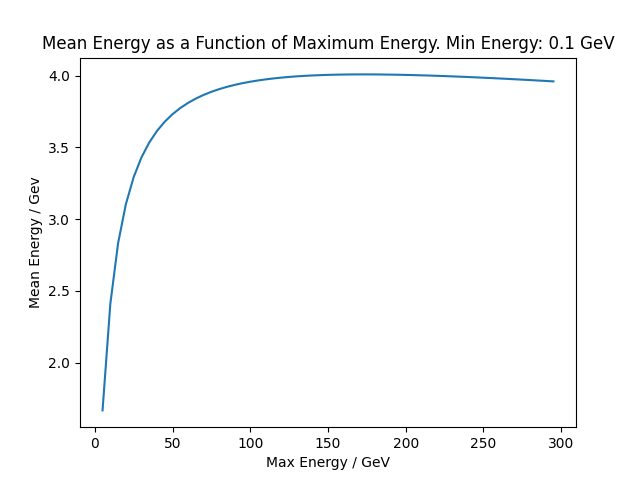
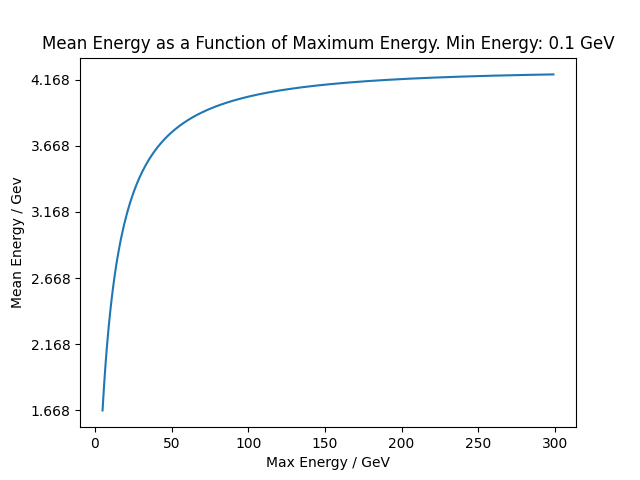
miscell

diff --git a/lifetime_processing.py b/lifetime_processing.py
@@ -33,31 +33,18 @@ def rest_lifetimes(x):
 def exponential_decay(t, N_0, tau):
     return N_0 * np.exp(-t/tau)
 
-
-# def get_folding_time(lifetimes):
-#     lifetimes_sorted = sorted(lifetimes)
-#     init_pop = len(lifetimes_sorted)
-
-#     one_over_e_pop = init_pop / np.exp(1)
-
-#     index = int(np.floor(one_over_e_pop) - 1)
-#     print(index)
-
-#     return lifetimes_sorted[index]
-
-
-def get_folding_time(remaining_muons, tmax):
-    x = np.linspace(0, tmax, len(remaining_muons))
-
-    #y = Nexp(-t/tau)
+def get_folding_time(times, remaining_muons):
+    x = times
+    print(f'Remaining muons matrix in folding time fxn: {remaining_muons}')
+    #y = N_0 * exp(-t/tau)
     #ln(y) = ln(N_0) - t/tau = ln(N_0) + lmbda*t
-    coeffs = np.polyfit(x, np.log(remaining_muons), 1)
+    padding = 1e-5
+    coeffs = np.polyfit(x, np.log(np.add(remaining_muons, padding)), 1)
     N_0 = np.exp(coeffs[1])
     lmbda = coeffs[0] 
     
     tau_estimate = 1 / abs(lmbda)
     return tau_estimate
-
 
                      
 def graph_ages(ages):
@@ -102,7 +89,6 @@ def return_hist(ages, tmax):
     """Graphs the population number for stationary muons in the array as a function of time spent stationary in the array"""
 
     lifetimes = [] #Collects all muons which have self.age != 1, i.e. decayed inside the matrix
-    values = [] #Time spent stationary in matrix
     
     for x in ages:
         if x != 0: 
@@ -110,17 +96,18 @@ def return_hist(ages, tmax):
 
     if len(lifetimes) > 0:
 
-        initial_population = len(lifetimes) #Initial number of muons which are stationary, i.e. population at t=0
-        max_lifetime = np.max(lifetimes) #Maximum age of muons in the array
+        initial_population = len(lifetimes)
 
-        bin_width = width
-        #bins = np.arange(0, max_lifetime + bin_width, bin_width)
         bins = len(ages)
         frequencies, edges = np.histogram(lifetimes, bins=bins)
         bin_centers = 0.5 * (edges[:-1] + edges[1:])
 
+        remaining_muons = [0]
+
         decayed = np.cumsum(frequencies)
-        remaining_muons = initial_population - decayed
+
+        for i in range(len(lifetimes)):
+            remaining_muons = [initial_population - decayed[i+1] for i in range(len(decayed))]
 
         folding_time = get_folding_time(remaining_muons, tmax)
 
@@ -130,3 +117,52 @@ def return_hist(ages, tmax):
     
     else:
         print("No muons decayed in simulation")
+
+
+def plot_reduced_samples(ages):
+    """Uses alternative method to graph ages of muons for sample sizes of less than 6 muon decays"""
+    init_pop = len(ages)
+    times = [0]
+    population = [init_pop]
+
+    for age in sorted(ages):
+        times.append(age)
+
+    for i in range(len(ages)):
+        population.append(init_pop - (i+1))
+
+    tau = get_folding_time(times, population)
+    
+    return times, population
+
+def plot_reduced_samples_no_tau(ages):
+    """Uses alternative method to graph ages of muons for sample sizes of less than 6 muon decays"""
+    init_pop = len(ages)
+    times = [0]
+    population = [init_pop]
+
+    for age in sorted(ages):
+        times.append(age)
+
+    for i in range(len(ages)):
+        population.append(init_pop - (i+1))
+    
+    return times, population
+
+# x = sorted([0,29856.470952521082, 7278.5805228244135, 3319.319442473883, 13997.699152302692, 35052.17123487241, 2833.6204762179104, 25272.912532584724, 43533.81012882453, 4105.307235359445, 45749.42530479566, 51960.91109054334, 26613.229481986244, 66058.93332211625, 21836.551906449327, 10526.942507710415, 9330.08435213552, 10932.957992298245, 21402.459909788788, 2450.321705174714, 14879.425304795663, 30430.453445279694, 7351.857489576128, 19892.791799076746, 2583.4285065690838, 1143.7482687751578, 3646.3372651487666, 76420.64654796182, 52587.824825099015, 8056.079035336175, 625.6312989926677, 35132.79648010837, 37838.735422818754, 36598.24516401929, 16725.611164961738, 6636.740962372215, 15744.692678735639, 6233.893907244066, 11834.912343132131, 9705.566166376737, 22824.77878005471, 8637.086160112805, 60854.283370758625, 21828.28052366389, 20835.883839985436, 60280.96262542227, 45929.0487994139, 20481.55123275422, 21794.367780580284, 5008.310755318906, 7661.055783324562, 8725.581824688026, 364.92903099285326, 32749.459909788788, 11602.723733418507, 11426.638974758791])
+# y = [len(x) - i for i in range(len(x))]
+
+# plt.plot(x,y, label=f'Energy Range: {110}-{200} MeV', color = 'r')
+
+# x_rest = np.linspace(0, 100000, 1000)
+# y_rest = rest_lifetimes(x_rest) #Expected graph for muons at rest
+
+# #Make sure to rescale the rest-frame curve to keep it in line with the initial maximum population
+# plt.scatter(x_rest, len(x)*y_rest, color='b', label='Expected distribution for muons at rest', marker='x', linewidths=0.1)
+
+# plt.xlabel('Lifetime in array / 100ps')
+# plt.ylabel('Muon population')
+# plt.legend()
+# plt.title(f'Muon Population Decay, {len(x)} decayed muons')
+# #plt.savefig('Multiple energy maxima.png')
+# plt.show()

diff --git a/population_graphs.py b/population_graphs.py
@@ -26,11 +26,11 @@ excitation_energy = 3 #In eV, based on light of wavelength 425nm
 rho = 1.081 #density in g/cm^3
 
 #ENERGY RANGES
-min_energies =  np.arange(110,190) #Minimum energies for the energy distribution in MeV
-max_energies = np.add(min_energies,10) #Maximum energies for the distribution in units of MeV. Muons are generated with energies between rest mass and this value
+min_energies =  np.arange(110, 290, 20) #Minimum energies for the energy distribution in MeV
+max_energies = np.add(min_energies, 10) #Maximum energies for the distribution in units of MeV. Muons are generated with energies between rest mass and this value
 
 #Maximum lifetimes for each of the different simulation runs.
-max_lifes = [] 
+init_pops = [] 
 
 #Percentage of muons stopped for each pass of the simulation. 
 percent_stopped = [] 
@@ -59,18 +59,24 @@ for j, max_e in enumerate(max_energies):
 
     print(ages)
 
-    if np.size(ages) != 0:
+    if np.size(ages) != 0 and np.size(ages) > 5:
         #Only enter this block if some of the muons were actually stopped.
         #Returns the x values (lifetime), y values (muon population remaining after each time), and TAU, the folding length
-        x, y, tau = life.return_hist(ages, tmax)
+        x, y = life.plot_reduced_samples(ages)
 
-        #Appends the initial population for each energy range to the master_pop list, which will be used to rescale the rest-frame distribution
-        max_lifes.append(np.max(y))
+        #Appends the initial population for each energy range to the init_pops list, which will be used to rescale the rest-frame distribution
+        init_pops.append(np.max(y))
 
         #Plot the graph of muon population against rest frame lifetime using the histogram return_hist function
-        plt.scatter(x,y, label=f'Energy Range: {min_e}-{max_e} MeV, tau: {(tau/10000):.2f} microseconds', color = np.random.choice(colors), marker=np.random.choice(styles))
+        plt.plot(x,y, label=f'Energy Range: {min_e}-{max_e} MeV', color = np.random.choice(colors))
 
         print(f'Percentage of muons stopped for {min_e}-{max_e} MeV: {life.percentage_stopped(stops):.2f} % ({life.number_stopped(stops)} muons total)')
+
+    elif np.size(ages) <=5:
+        #Use alternative method to avoid lack of convergence in least-squares method
+        times, pop = life.plot_reduced_samples_no_tau(ages)
+        init_pops.append(np.max(y))
+        plt.plot(x,y, label=f'Energy Range: {min_e}-{max_e} MeV', color = np.random.choice(colors))
 
     else:
         print(f'No muons stopped for energy range {min_e}-{max_e} MeV')
@@ -92,12 +98,13 @@ x_rest = np.linspace(0, 100000, 1000)
 y_rest = life.rest_lifetimes(x_rest) #Expected graph for muons at rest
 
 #Make sure to rescale the rest-frame curve to keep it in line with the initial maximum population
-plt.plot(x_rest, len(ages)*y_rest, color='m', label='Expected distribution for muons at rest')
+# for init_pop in init_pops:
+#     plt.scatter(x_rest, init_pop*y_rest, color='b')
 
 plt.xlabel('Lifetime in array / microseconds')
 plt.ylabel('Muon population')
 plt.legend()
-plt.title(f'Muon Population Decay, {muon_number} decayed muons')
+plt.title(f'Muon Population Decay, {len(ages)} decayed muons')
 #plt.savefig('Multiple energy maxima.png')
 plt.show()
 
@@ -107,20 +114,21 @@ plt.show()
 # of muons stopped in each case.                                #
 #################################################################
 
-#Stores the energy range values as strings in order to be placed on the x-axis
-labels = [] 
+# #Stores the energy range values as strings in order to be placed on the x-axis
+# labels = [] 
 
-for i, percent in enumerate(percent_stopped):
-    min_energy = min_energies[i]
-    max_energy = max_energies[i]
+# for i, percent in enumerate(percent_stopped):
+#     min_energy = min_energies[i]
+#     max_energy = max_energies[i]
 
-    #Make an appropriate label based on the minimum and maximum energies
-    label = str(min_energy) + '-' + str(max_energy)
-    labels.append(label)
+#     #Make an appropriate label based on the minimum and maximum energies
+#     label = str(min_energy) + '-' + str(max_energy)
+#     labels.append(label)
 
-plt.bar(labels, percent_stopped)
-plt.xlabel('Energy Range / MeV')
-plt.ylabel('Stopped in array %')
-plt.title(f'Percentage of Muons Stopped for {muon_number} muons')
-#plt.savefig('stopped_in_array.png')
-plt.show()
+# plt.bar(labels, percent_stopped)
+# plt.xlabel('Energy Range / MeV')
+# plt.ylabel('Stopped in array %')
+# plt.xticks(rotation=90)
+# plt.title(f'Percentage of Muons Stopped for {muon_number} muons')
+# #plt.savefig('stopped_in_array.png')
+# plt.show()

diff --git a/Energy Distribution/energy_distribution_graphical_plot.py b/Energy Distribution/energy_distribution_graphical_plot.py
@@ -4,7 +4,7 @@ import matplotlib.animation as animation
 
 fig, ax = plt.subplots()
 
-x = np.arange(5,300, 5)
+x = np.arange(5,300, 1)
 means = []
 
 class Energy_Distribution:
@@ -13,7 +13,7 @@ class Energy_Distribution:
         """Takes energy values in units of GeV"""
         self.emin = emin
         self.emax = emax
-        self.e_vals = np.linspace(self.emin, self.emax, 1000)
+        self.e_vals = np.linspace(self.emin, self.emax, 10000)
         self.p_values = self.get_p_values()
         self.mean = self.get_mean_energy()
         
@@ -49,22 +49,23 @@ for emax in e_maxes:
     mean = distrib.mean
     means.append(mean)
 
-# plt.plot(x, means)
-# plt.title(f'Mean Energy as a Function of Maximum Energy. Min Energy: {e_min} GeV')
-# plt.xlabel('Max Energy / GeV')
-# plt.ylabel('Mean Energy / Gev')
-# plt.savefig('max_energy_vs_mean.png')
-# plt.show()
-
-def animate(i):
-    ax.clear()
-    e_max = e_maxes[i]
-    distribution1 = Energy_Distribution(e_min, e_max)
-    distribution1.plot_distribution()
-    return 0
-
-anim = animation.FuncAnimation(fig, animate, frames = len(e_maxes), interval = 1000)
-
+plt.plot(x, means)
+plt.yticks(np.arange(np.min(means), np.max(means), 0.5))
+plt.title(f'Mean Energy as a Function of Maximum Energy. Min Energy: {e_min} GeV')
+plt.xlabel('Max Energy / GeV')
+plt.ylabel('Mean Energy / Gev')
+plt.savefig('max_energy_vs_mean.png')
 plt.show()
 
-anim.save('energy_distribution_animation_2.gif')
+# def animate(i):
+#     ax.clear()
+#     e_max = e_maxes[i]
+#     distribution1 = Energy_Distribution(e_min, e_max)
+#     distribution1.plot_distribution()
+#     return 0
+
+# anim = animation.FuncAnimation(fig, animate, frames = len(e_maxes), interval = 1000)
+
+# plt.show()
+
+# anim.save('energy_distribution_animation_2.gif')

diff --git a/graphing_functions.py b/graphing_functions.py
@@ -114,11 +114,11 @@ def generate_muon_graph(muon, initial_pos, final_pos):
 
     #Intial position plus label
     ax.scatter(initial_pos[2], initial_pos[0], initial_pos[1], color='k')
-    ax.text(initial_pos[2] + 0.1, initial_pos[0] + 0.1, initial_pos[1] +1, f'[{initial_pos[2]:.2f}, {initial_pos[0]:.2f}, {initial_pos[1]:.2f}]', color='blue')
+    ax.text(initial_pos[2] + 0.1, initial_pos[0] + 0.1, initial_pos[1] +1, f'[{initial_pos[2]:.1f}, {initial_pos[0]:.1f}, {initial_pos[1]:.1f}]', color='blue')
     
     #Final position plus label
     ax.scatter(final_pos[2], final_pos[0], final_pos[1], color='k')
-    ax.text(final_pos[2] + 0.1, final_pos[0] + 0.1, final_pos[1] +1, f'[{final_pos[2]:.2f}, {final_pos[0]:.2f}, {final_pos[1]:.2f}]', color='blue')
+    ax.text(final_pos[2] + 0.1, final_pos[0] + 0.1, final_pos[1] +1, f'[{final_pos[2]:.1f}, {final_pos[0]:.1f}, {final_pos[1]:.1f}]', color='blue')
 
 
     #########################################################################

diff --git a/angular_distribution_graphs/angular_distribution_graphing.py b/angular_distribution_graphs/angular_distribution_graphing.py
@@ -11,7 +11,7 @@ array_dim = 5
 max_energy = 10000 #10 GeV
 min_energy = 107 #106 Mev- rest mass
 
-bin_no = 20
+bin_no = 100
 
 step = 0.01
 
@@ -31,10 +31,10 @@ integral = np.trapz(cos_2x, x)
 bin_centers = 0.5 * (bin_edges[:-1] + bin_edges[1:])
 cos_2x_norm = cos_2x / integral
 
-plt.plot(x, cos_2x_norm, label='Cos^2x, Normalised')
-plt.scatter(bin_centers, y, color='r', label='Randomly Generated Theta Values')
+plt.plot(x, cos_2x_norm, label='Cos^2(x) PDF, normalised')
+plt.scatter(bin_centers, y, color='r', label=f'Randomly Generated Theta Values, {bin_no} quantisation bins')
 plt.legend()
-plt.title('Randomly generated angles against Cos^2x Graph')
+plt.title(f'Simulation probability density function for zenith angle, {muon_number} muons')
 plt.savefig(f'angular_distrib_graph_{bin_no}_bins.png')
 plt.show()
 

diff --git a/3D rendering/3D_rendering_array.py b/3D rendering/3D_rendering_array.py
@@ -1,0 +1,24 @@
+import matplotlib.pyplot as plt
+from mpl_toolkits.mplot3d import Axes3D 
+import numpy as np
+
+fig = plt.figure()
+ax = fig.add_subplot(111, projection='3d')
+
+#For 5x5 array
+dimension = 5
+height = 1
+colors = ['black', 'dimgray']
+
+for i in range(5):
+    for j in range(5):
+        color_index = (i+j) % 2
+        ax.bar3d(i, 0, j, 1, 1, 1, color=colors[color_index], edgecolor='w')
+
+ax.set_zlabel('Height above ground')
+ax.set_xticks([])
+ax.set_yticks([])
+ax.set_zticks([])
+plt.title('3D Rendering of Scintillator Array')
+plt.savefig('3d_photo')
+plt.show()

diff --git a/muon.py b/muon.py
@@ -4,7 +4,7 @@ import numpy as np
 # MUON CLASS LIBRARY #
 ######################
 
-t= np.linspace(0,10,1000)
+#t= np.linspace(0,10,1000)
 
 class Muon:
     """The goal of the simulation is to correctly model the passage of a muon of a particular
@@ -275,7 +275,7 @@ class Muon:
     def set_final_position(self):
         """Takes the final position as input and updates the final position parameter accordingly"""
         pos = self.true_position
-        tolerance = 10**-2
+        tolerance = 1e-2
         step_size = 0.01
 
         ready = False

diff --git a/simulation.py b/simulation.py
@@ -9,6 +9,9 @@ import graphing_functions
 
 current_directory = os.getcwd()
 
+if __name__ == '__main__':
+    print('Accessing simulation')
+
 def run_simulation(tmax, sipms_per_scintillator, array_dimension, atomic_no, mass_no, excitation_energy, rho, max_muon_energy, min_muon_energy=200, dx=5):
     """Runs the simulation and returns the decayed muon ages, and whether the
     muon was stopped in the array as a 0 or 1 value
